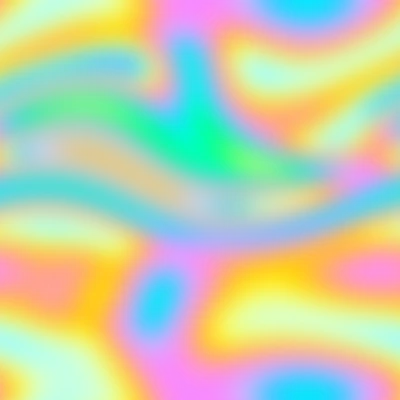
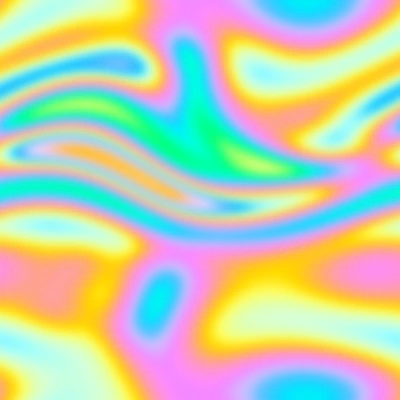
Soap film: less blur (the bands keep their shape), a little fainter; tools/film.html makes the texture

diff --git a/tools/film.html b/tools/film.html
@@ -1,0 +1,98 @@
+<!doctype html>
+<meta charset="utf-8">
+<title>Soap film texture</title>
+<!-- Makes viewer/film.webp: open this page in a browser, check the preview, and save the image with the link.
+     The colours are computed from thin-film interference (see the script); the settings used for the app are below. -->
+<body style="font: 15px sans-serif; background: #e9edf1; margin: 20px">
+<p><a id="save" download="film.webp">Save film.webp</a></p>
+<div id="show"></div>
+<script>
+// A soap film's colours, computed: reflectance of a water film (n = 1.33) in air, at near-normal incidence, over the
+// visible spectrum under daylight, seen through the CIE 1931 observer; the film's thickness flows in swirls.
+function cmf(l) {            // CIE 1931 colour matching functions, multi-lobe Gaussian fit (Wyman, Sloan & Shirley 2013)
+  const g = (x, m, s1, s2) => { const t = (x - m) / (x < m ? s1 : s2); return Math.exp(-0.5 * t * t); };
+  return [1.056 * g(l, 599.8, 37.9, 31.0) + 0.362 * g(l, 442.0, 16.0, 26.7) - 0.065 * g(l, 501.1, 20.4, 26.2),
+          0.821 * g(l, 568.8, 46.9, 40.5) + 0.286 * g(l, 530.9, 16.3, 31.1),
+          1.217 * g(l, 437.0, 11.8, 36.0) + 0.681 * g(l, 459.0, 26.0, 13.8)];
+}
+function d65(l) {            // daylight, as a 6504 K black body (close enough for the film's hues)
+  const c2 = 1.4388e7, T = 6504; return 1 / (Math.pow(l / 560, 5) * (Math.exp(c2 / (l * T)) - 1)) * (Math.exp(c2 / (560 * T)) - 1);
+}
+const n = 1.33, r = (n - 1) / (n + 1), r2 = r * r;
+function reflect(d, l) {     // Airy reflectance of the film (phase flip at the front face)
+  const c = Math.cos(4 * Math.PI * n * d / l);
+  return 2 * r2 * (1 - c) / (1 + r2 * r2 - 2 * r2 * c);
+}
+function xyz(d) {
+  let X = 0, Y = 0, Z = 0;
+  for (let l = 380; l <= 780; l += 4) { const [x, y, z] = cmf(l), s = d65(l), R = d < 0 ? 2 * r2 / (1 + r2) : reflect(d, l); X += x * s * R; Y += y * s * R; Z += z * s * R; }
+  return [X, Y, Z];
+}
+const white = xyz(-1)[1];    // a thick film's mean reflectance: plain white
+function toRGB(d) {
+  const [X, Y, Z] = xyz(d).map(v => v / white);
+  let R = 3.2406 * X - 1.5372 * Y - 0.4986 * Z, G = -0.9689 * X + 1.8758 * Y + 0.0415 * Z, B = 0.0557 * X - 0.2040 * Y + 1.0570 * Z;
+  return [R, G, B, Y];
+}
+// thickness in nm → colour and opacity (a table, then looked up per pixel)
+const LUT = [], D0 = 0, D1 = 900;
+for (let i = 0; i < 1024; i++) LUT.push(toRGB(D0 + (D1 - D0) * i / 1023));
+function look(d) { return LUT[Math.max(0, Math.min(1023, Math.round((d - D0) / (D1 - D0) * 1023)))]; }
+// a flowing thickness: periodic (the tile repeats seamlessly), warped into swirls, stretched sideways like a draining film
+function waves(seed, count, kmax) {
+  let s = seed; const rnd = () => (s = (s * 16807) % 2147483647) / 2147483647;
+  const w = [];
+  for (let i = 0; i < count; i++) {
+    const kx = Math.floor(rnd() * (kmax + 1)) * (rnd() < 0.5 ? -1 : 1), ky = Math.floor(rnd() * (kmax / 2 + 1)) * (rnd() < 0.5 ? -1 : 1);
+    if (!kx && !ky) { i--; continue; }
+    w.push([kx, ky, rnd() * 2 * Math.PI, 1 / Math.hypot(kx, 2 * ky)]);
+  }
+  return (u, v) => { let t = 0; for (const [kx, ky, p, a] of w) t += a * Math.sin(2 * Math.PI * (kx * u + ky * v) + p); return t; };
+}
+function texture(W, H, opts) {
+  const f = waves(opts.seed, 10, 3), gx = waves(opts.seed + 7, 6, 2), gy = waves(opts.seed + 13, 6, 2);
+  const data = new Uint8ClampedArray(W * H * 4);
+  let lo = 1e9, hi = -1e9; const raw = new Float32Array(W * H);
+  for (let y = 0; y < H; y++) for (let x = 0; x < W; x++) {
+    const u = x / W, v = y / H;
+    const t = f(v + opts.warp * gx(v, u), u + opts.warp * gy(v, u));      // (bands lying across, as a film drains)
+    raw[y * W + x] = t; lo = Math.min(lo, t); hi = Math.max(hi, t);
+  }
+  for (let i = 0; i < W * H; i++) {
+    const d = opts.d0 + (opts.d1 - opts.d0) * (raw[i] - lo) / (hi - lo);
+    let [R, G, B, Y] = look(d);
+    const m = Math.max(R, G, B, 1e-6);
+    const sat = 1 - Math.min(R, G, B) / m;                     // how coloured it is
+    const a = Math.min(1, Math.pow(Math.max(0, Y), 0.85)) * (0.25 + 0.75 * sat);   // clear where it is dark or grey
+    const gam = c => 255 * (c <= 0.0031308 ? 12.92 * c : 1.055 * Math.pow(c, 1 / 2.4) - 0.055);
+    const k = 1 / Math.max(1.35, m);                            // the reflected colour itself, brightest parts kept in range
+    data[i * 4] = gam(Math.min(1, Math.max(0, R * k))); data[i * 4 + 1] = gam(Math.min(1, Math.max(0, G * k))); data[i * 4 + 2] = gam(Math.min(1, Math.max(0, B * k)));
+    data[i * 4 + 3] = 255 * a;
+  }
+  const c = document.createElement("canvas"); c.width = W; c.height = H;
+  c.getContext("2d").putImageData(new ImageData(data, W, H), 0, 0);
+  return c;
+}
+
+// the film softened, as it is seen through frosted glass: blurred with the tile wrapped round (it still repeats seamlessly)
+function blurred(tile, px) {
+  const W = tile.width, H = tile.height, big = document.createElement("canvas");
+  big.width = 3 * W; big.height = 3 * H;
+  const b = big.getContext("2d");
+  for (let i = 0; i < 3; i++) for (let j = 0; j < 3; j++) b.drawImage(tile, i * W, j * H);
+  const soft = document.createElement("canvas"); soft.width = 3 * W; soft.height = 3 * H;
+  const s = soft.getContext("2d"); s.filter = "blur(" + px + "px)"; s.drawImage(big, 0, 0);
+  const out = document.createElement("canvas"); out.width = W; out.height = H;
+  out.getContext("2d").drawImage(soft, W, H, W, H, 0, 0, W, H);
+  return out;
+}
+
+var SETTINGS = {size: 400, seed: 7, warp: 0.12, d0: 150, d1: 520, blur: 4};
+var c = blurred(texture(SETTINGS.size, SETTINGS.size, SETTINGS), SETTINGS.blur);
+var url = c.toDataURL("image/webp", 0.9);
+document.getElementById("save").href = url;
+["#fafbfc", "#14171b"].forEach(function (bg) {
+  var d = document.createElement("div"); d.style.cssText = "display:inline-block;padding:12px;background:" + bg;
+  var i = new Image(); i.src = url; i.width = 400; d.appendChild(i); document.getElementById("show").appendChild(d);
+});
+</script>

diff --git a/viewer/theme.css b/viewer/theme.css
@@ -1073,9 +1073,9 @@ a.lib-title { color: var(--ink); }
    thickness that flows in swirls. It lies faintly over the glass, clear where the film reflects little. One still
    image, drawn once: nothing moves or is worked out while scrolling. Laid from the top of the screen, the bar's and
    an open panel's film continue each other. */
-:root { --film-o: 0.3; --film-blend: normal; }
-@media (prefers-color-scheme: dark) { :root:not([data-theme="light"]) { --film-o: 0.34; --film-blend: screen; } }
-:root[data-theme="dark"] { --film-o: 0.34; --film-blend: screen; }
+:root { --film-o: 0.22; --film-blend: normal; }
+@media (prefers-color-scheme: dark) { :root:not([data-theme="light"]) { --film-o: 0.26; --film-blend: screen; } }
+:root[data-theme="dark"] { --film-o: 0.26; --film-blend: screen; }
 .l2m-bar::before, .l2m-menu::before, .l2m-fnsheet::before, .app-toast::before {
   content: ""; position: absolute; inset: 0; z-index: -1; pointer-events: none; border-radius: inherit;
   background: url(film.webp) 0 0 / 900px 900px repeat; opacity: var(--film-o);
